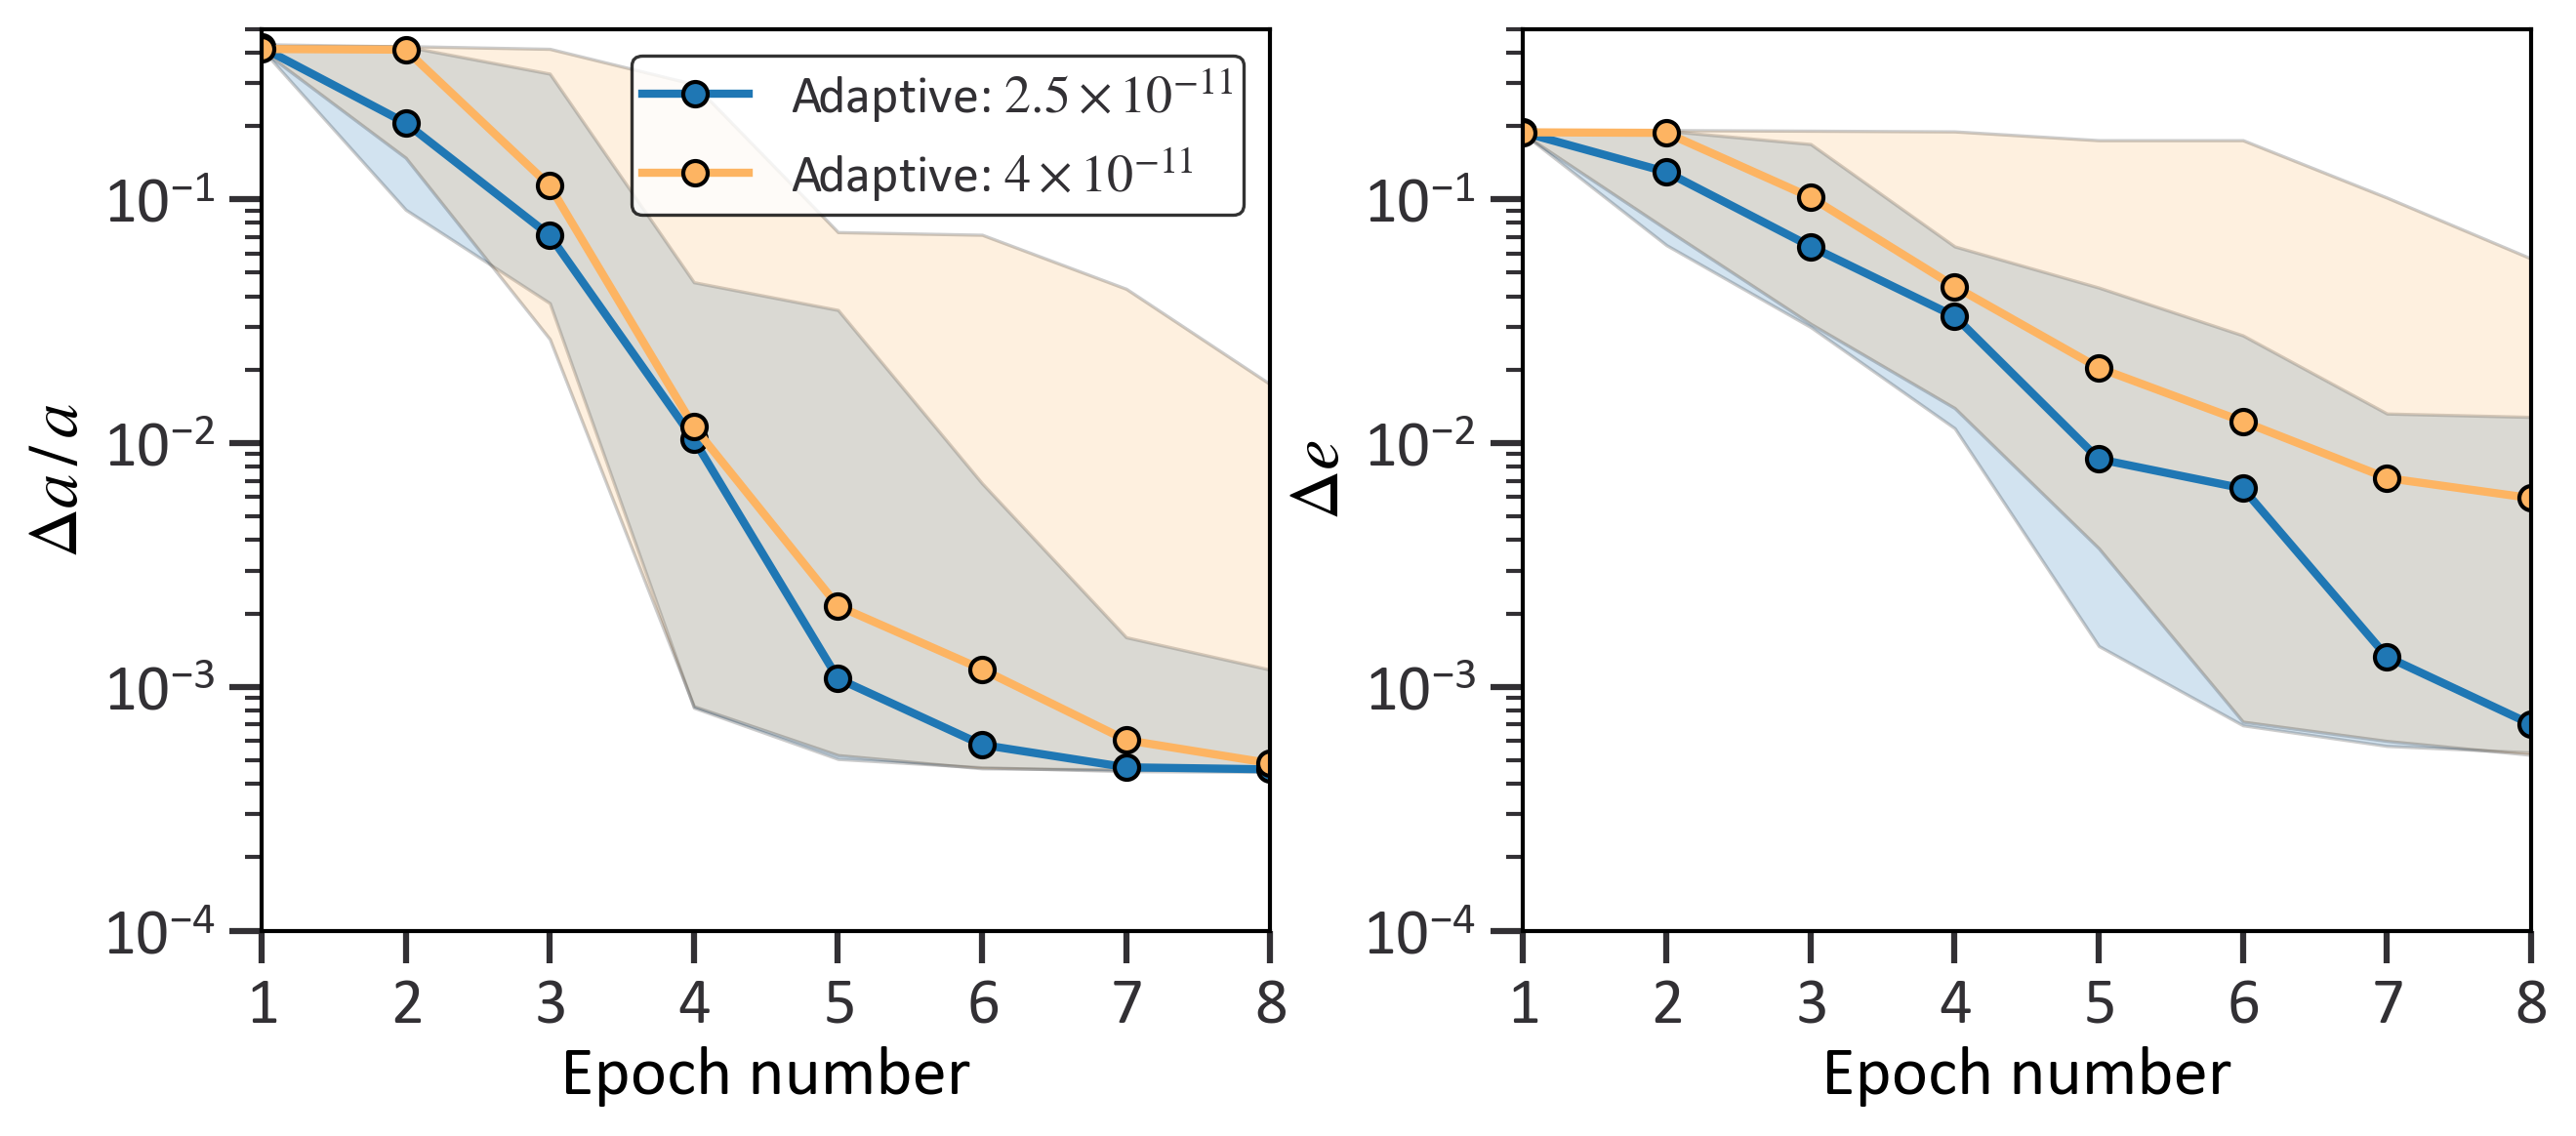
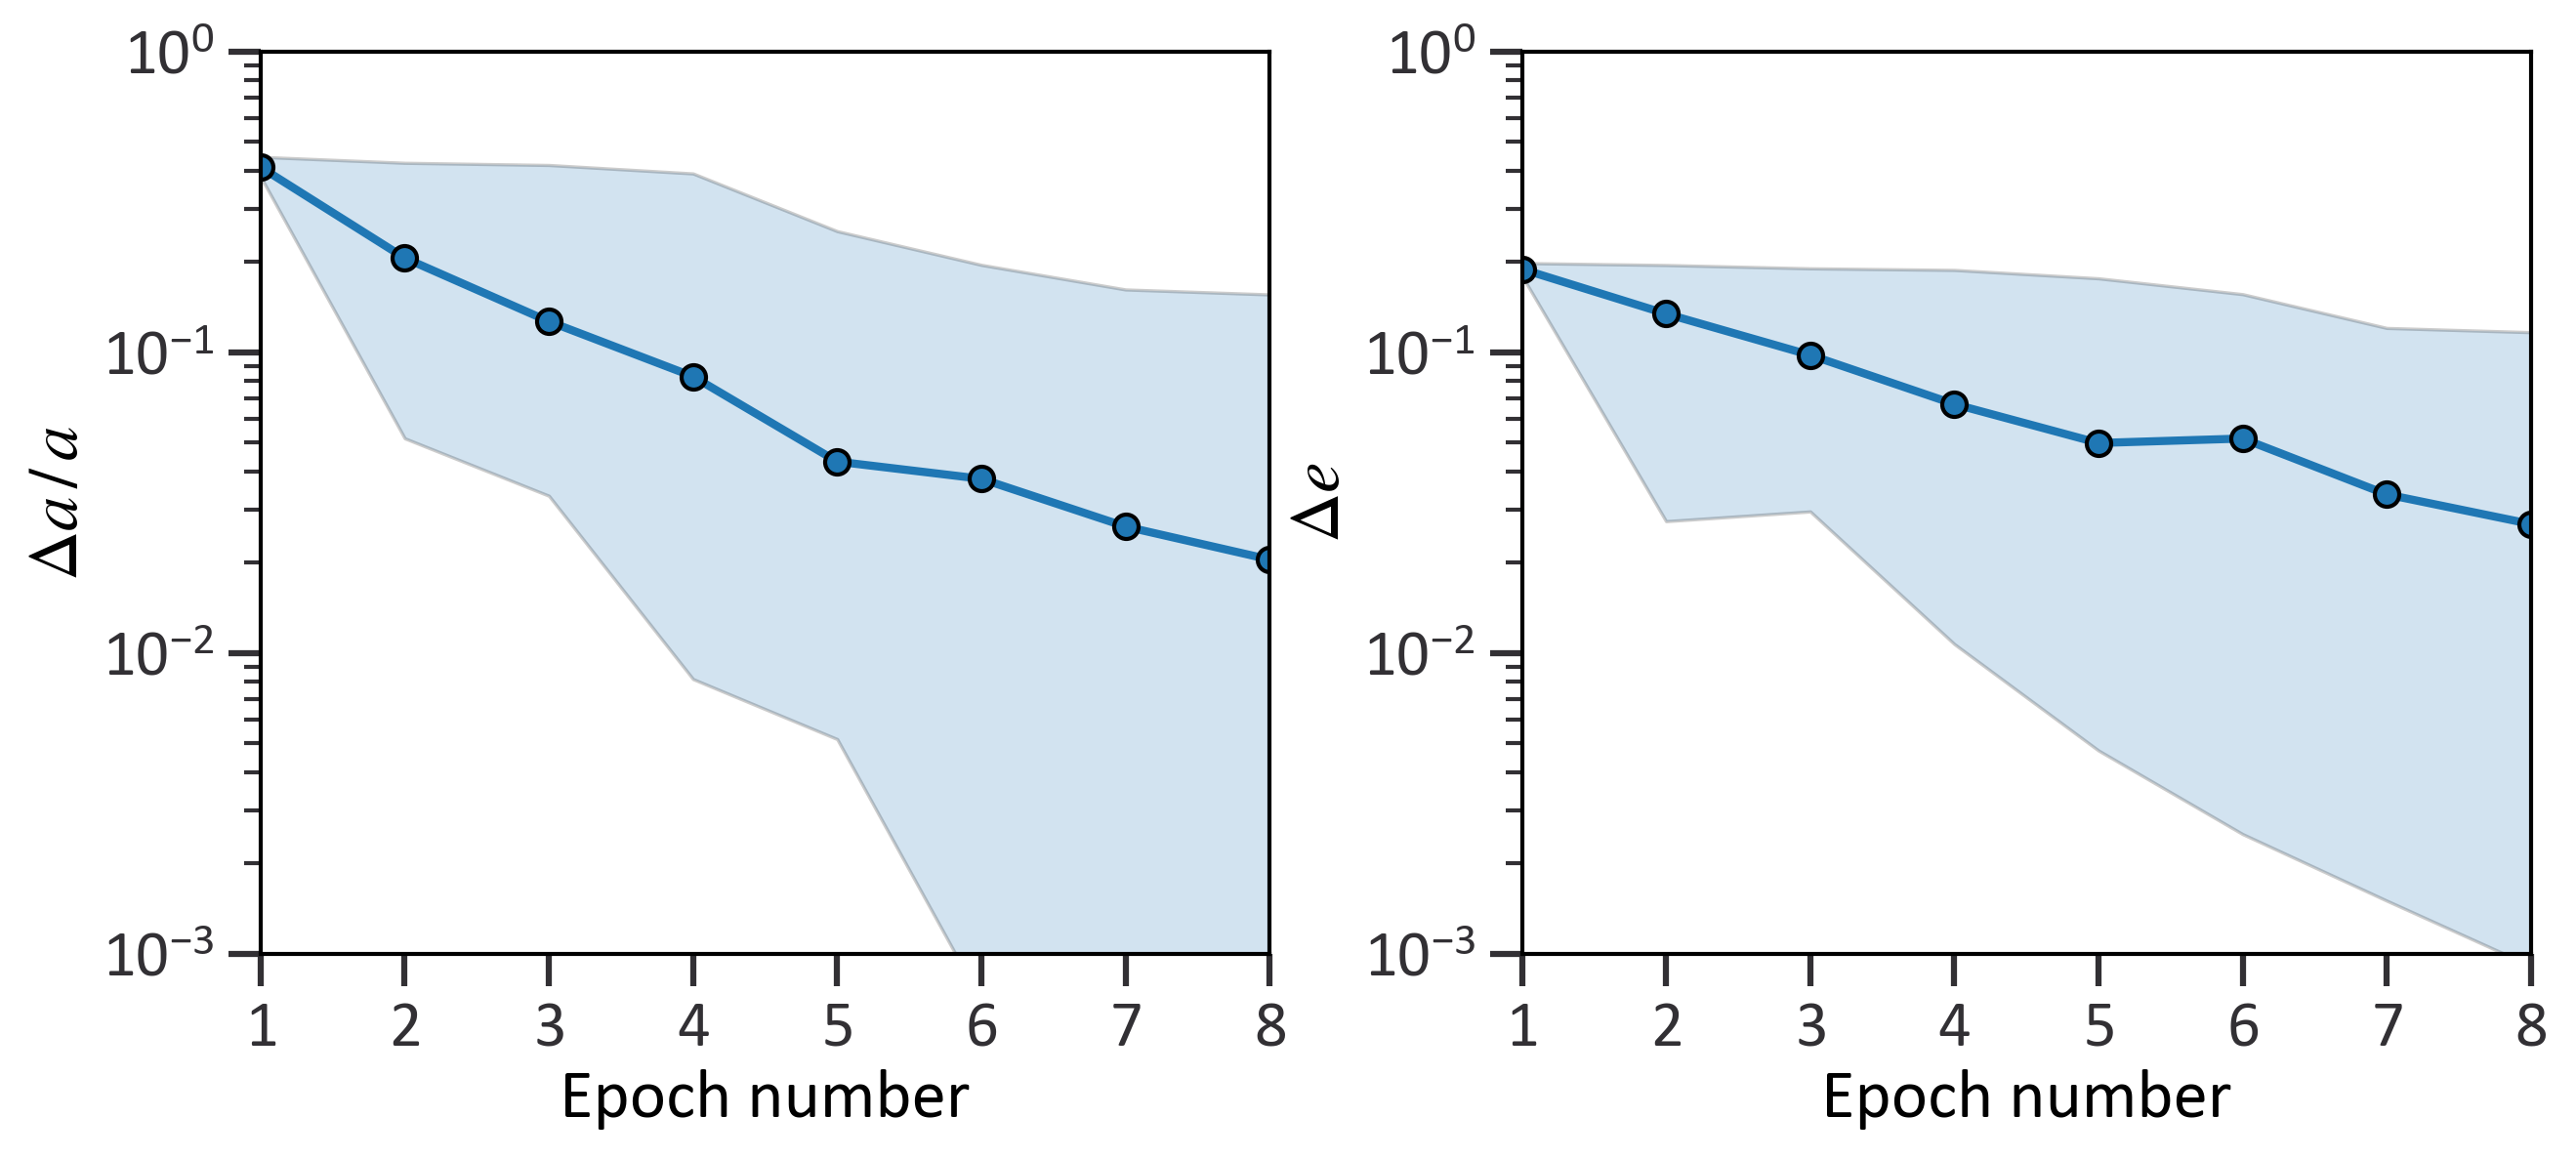
Scripts for Fig 8

diff --git a/Fig 8 - AC Fractional error per epoch/Fractional error per epoch.py b/Fig 8 - AC Fractional error per epoch/Fractional error per epoch.py
@@ -29,7 +29,7 @@ def compute_uncertainties(row):
     """
     orbit_df = row["orbit_df"]
 
-    if orbit_df.empty:
+    if not isinstance(orbit_df, pd.DataFrame) or orbit_df.empty:
         return pd.Series({"frac_sma_unc": np.nan, "ecc_unc": np.nan})
     
     sma = orbit_df["sma"].to_numpy()
@@ -50,11 +50,10 @@ def compute_uncertainties(row):
 # ---------------------------------- I/O ------------------------------------ #
 curr_dir = Path(__file__).resolve().parent
 parent_dir = curr_dir.parent
-data_dir = parent_dir / "Data" / "Part I - Observing Cadence"
+data_dir = parent_dir / "Data" / "Part II - Demographics" / "5. Fiducial Case - IWA - 0.06, Contrast = 1e-10"
 
 fit_files = {
-    "Adaptive: $2.5\\times10^{-11}$": data_dir / "4. AC Fits - 2.5e-11.pkl",
-    "Adaptive: $4\\times10^{-11}$"  : data_dir / "4. AC Fits - 4e-11.pkl",
+    "Uniform: $1\\times10^{-10}$": data_dir / "5a. Orbit Fits.pkl"
 }
 # --------------------------------------------------------------------------- #
 
@@ -68,6 +67,18 @@ for label, path in fit_files.items():
     # For more details on this file, see the docstring in Data/Part I - Observing Cadence/4. Orbit Fits.py
     df = pd.read_pickle(path)
 
+    # Identify planets with valid posteriors at epoch 8
+    idx = pd.IndexSlice
+    df_epoch8 = df.loc[idx[:, 8], :]
+
+    valid_epoch8 = df_epoch8["orbit_df"].apply(lambda x: isinstance(x, pd.DataFrame) and len(x) > 0)
+
+    valid_planet_ids = df_epoch8[valid_epoch8].index.get_level_values("PlanetID").unique()
+
+    # Restrict full time series to the same final fitted planet sample
+    df = df.loc[df.index.get_level_values("PlanetID").isin(valid_planet_ids)].copy()
+
+    print(f"{label}: {len(valid_planet_ids)} planets with valid epoch-8 posteriors")
 
     # Fractional uncertainty in sma and ecc for all planets at all epochs, enforced using the apply() function
     df[["frac_sma_unc", "ecc_unc"]] = df.apply(compute_uncertainties, axis=1)
@@ -97,16 +108,14 @@ for label, path in fit_files.items():
 
 axes[0].set_xlabel("Epoch number")
 axes[0].set_ylabel("$\\Delta a\,/\,a$")
-axes[0].set_ylim([1e-4, 0.5])
+axes[0].set_ylim([1e-3, 1])
 axes[0].set_xlim([1, 8])
 axes[1].set_xlabel("Epoch number")
 axes[1].set_ylabel("$\\Delta e$")
-axes[1].set_ylim([1e-4, 0.5])
+axes[1].set_ylim([1e-3, 1])
 axes[1].set_xlim([1, 8])
 axes[0].set_yscale('log')
 axes[1].set_yscale('log')
-
-axes[0].legend()
 
 plt.savefig(curr_dir / "fig8_sma_ecc_precision_vs_epoch", dpi=300, bbox_inches = 'tight')
 plt.show()

diff --git a/Fig 8 - AC Fractional error per epoch/README.md b/Fig 8 - AC Fractional error per epoch/README.md
@@ -1,28 +1,20 @@
 # Figure 8 -- Average fractional uncertainty in SMA and ecc as a function of epoch
 This folder reproduces **Figure 8** from Abbas et al. (2026, ApJ).  
-The figure shows the average fractional uncertainty in sma and ecc and the 16-84 percentile spread across all exo-Earths as a function of epoch
-Applied to planets observed through the adaptive cadence strategy
-
+The figure shows the average fractional uncertainty in sma and ecc and the 16-84 percentile spread across all planets observed under a uniform 8 epoch 3-month cadence with the fiducial architecture.
 ## Files
 - `Fractional error per epoch.py`  -- Script to generate Fig 8
-- `fig8_sma_ecc_precision_vs_epoch.png` -- Output figure for the 2.5e-11 contrast floor (matches Fig 8 in the paper).
+- `fig8_sma_ecc_precision_vs_epoch.png` -- Output figure for the fiducial architecture (matches Fig 8 in the paper).
 
 ## Dependencies
 - Python >3.9  
 - `numpy`, `pandas`, `pathlib`, `matplotlib`
 - The custom built plotting package `PlotStyle` (Optional). Installation instructions are in `REQUIREMENTS.md` in the root directory.
-- Requires the results of scripts `1-4` in `Data/Part I - Observing Cadence`: 
-  1. `1. HZ Candidates - Planet Catalog.py` -- Script to generate the exo-Earth catalog from the full planet catalog (`Data/Planet Generation/SAG13 Planet Catalog.csv`)
-  2. `2. UC Observing Log Generator.py`     -- Script to apply a uniform cadence to the planets in `1. Planet Catalog.csv`
-  3. `3. AC Observing Log Generator.py`     -- Script to apply the adaptive cadence to the planets in `1. Planet Catalog.csv` 
-  4. `4. Orbit Fits.py`                     -- Script to orbit fit each planet at each epoch in the observing log
+- Requires the results of scripts `5a` and `5ab` in `5. Data / Part II - Demographics / 5. Fiducial Case - IWA - 0.06, Contrast = 1e-10`: 
+  1. `5a. Observing Sim.py`                 -- Script to generate the observing log following an uniform 8-epoch cadence spaced 3 months apart for the fiducial configuration
+  2. `5ab. Orbit Fits.py`                   -- Script to orbit fit each planet at each epoch in the observing log
 
 - These scripts will require additional dependencies: `time` and the custom built packages `solve_orbit` and `orbituary`.
-- The results of all these scripts are provided as data products in the directory `Data/Part I - Observing Cadence`. `Fractional error per epoch.py` references these and can thus be run directly to reproduce Fig 8.
-
-
-## Important note
-- **You only need to regenerate the planet catalog and run the scripts to generate the observing logs in the Data directory you want a new random realization.**   
+- Due to a file size limit, the results of the orbit fits cannot be provided as a .pkl file. However,`5ab. Orbit Fits.py` can be rerun to generate this file.
 
 ## How to run
 From the repo root, run: